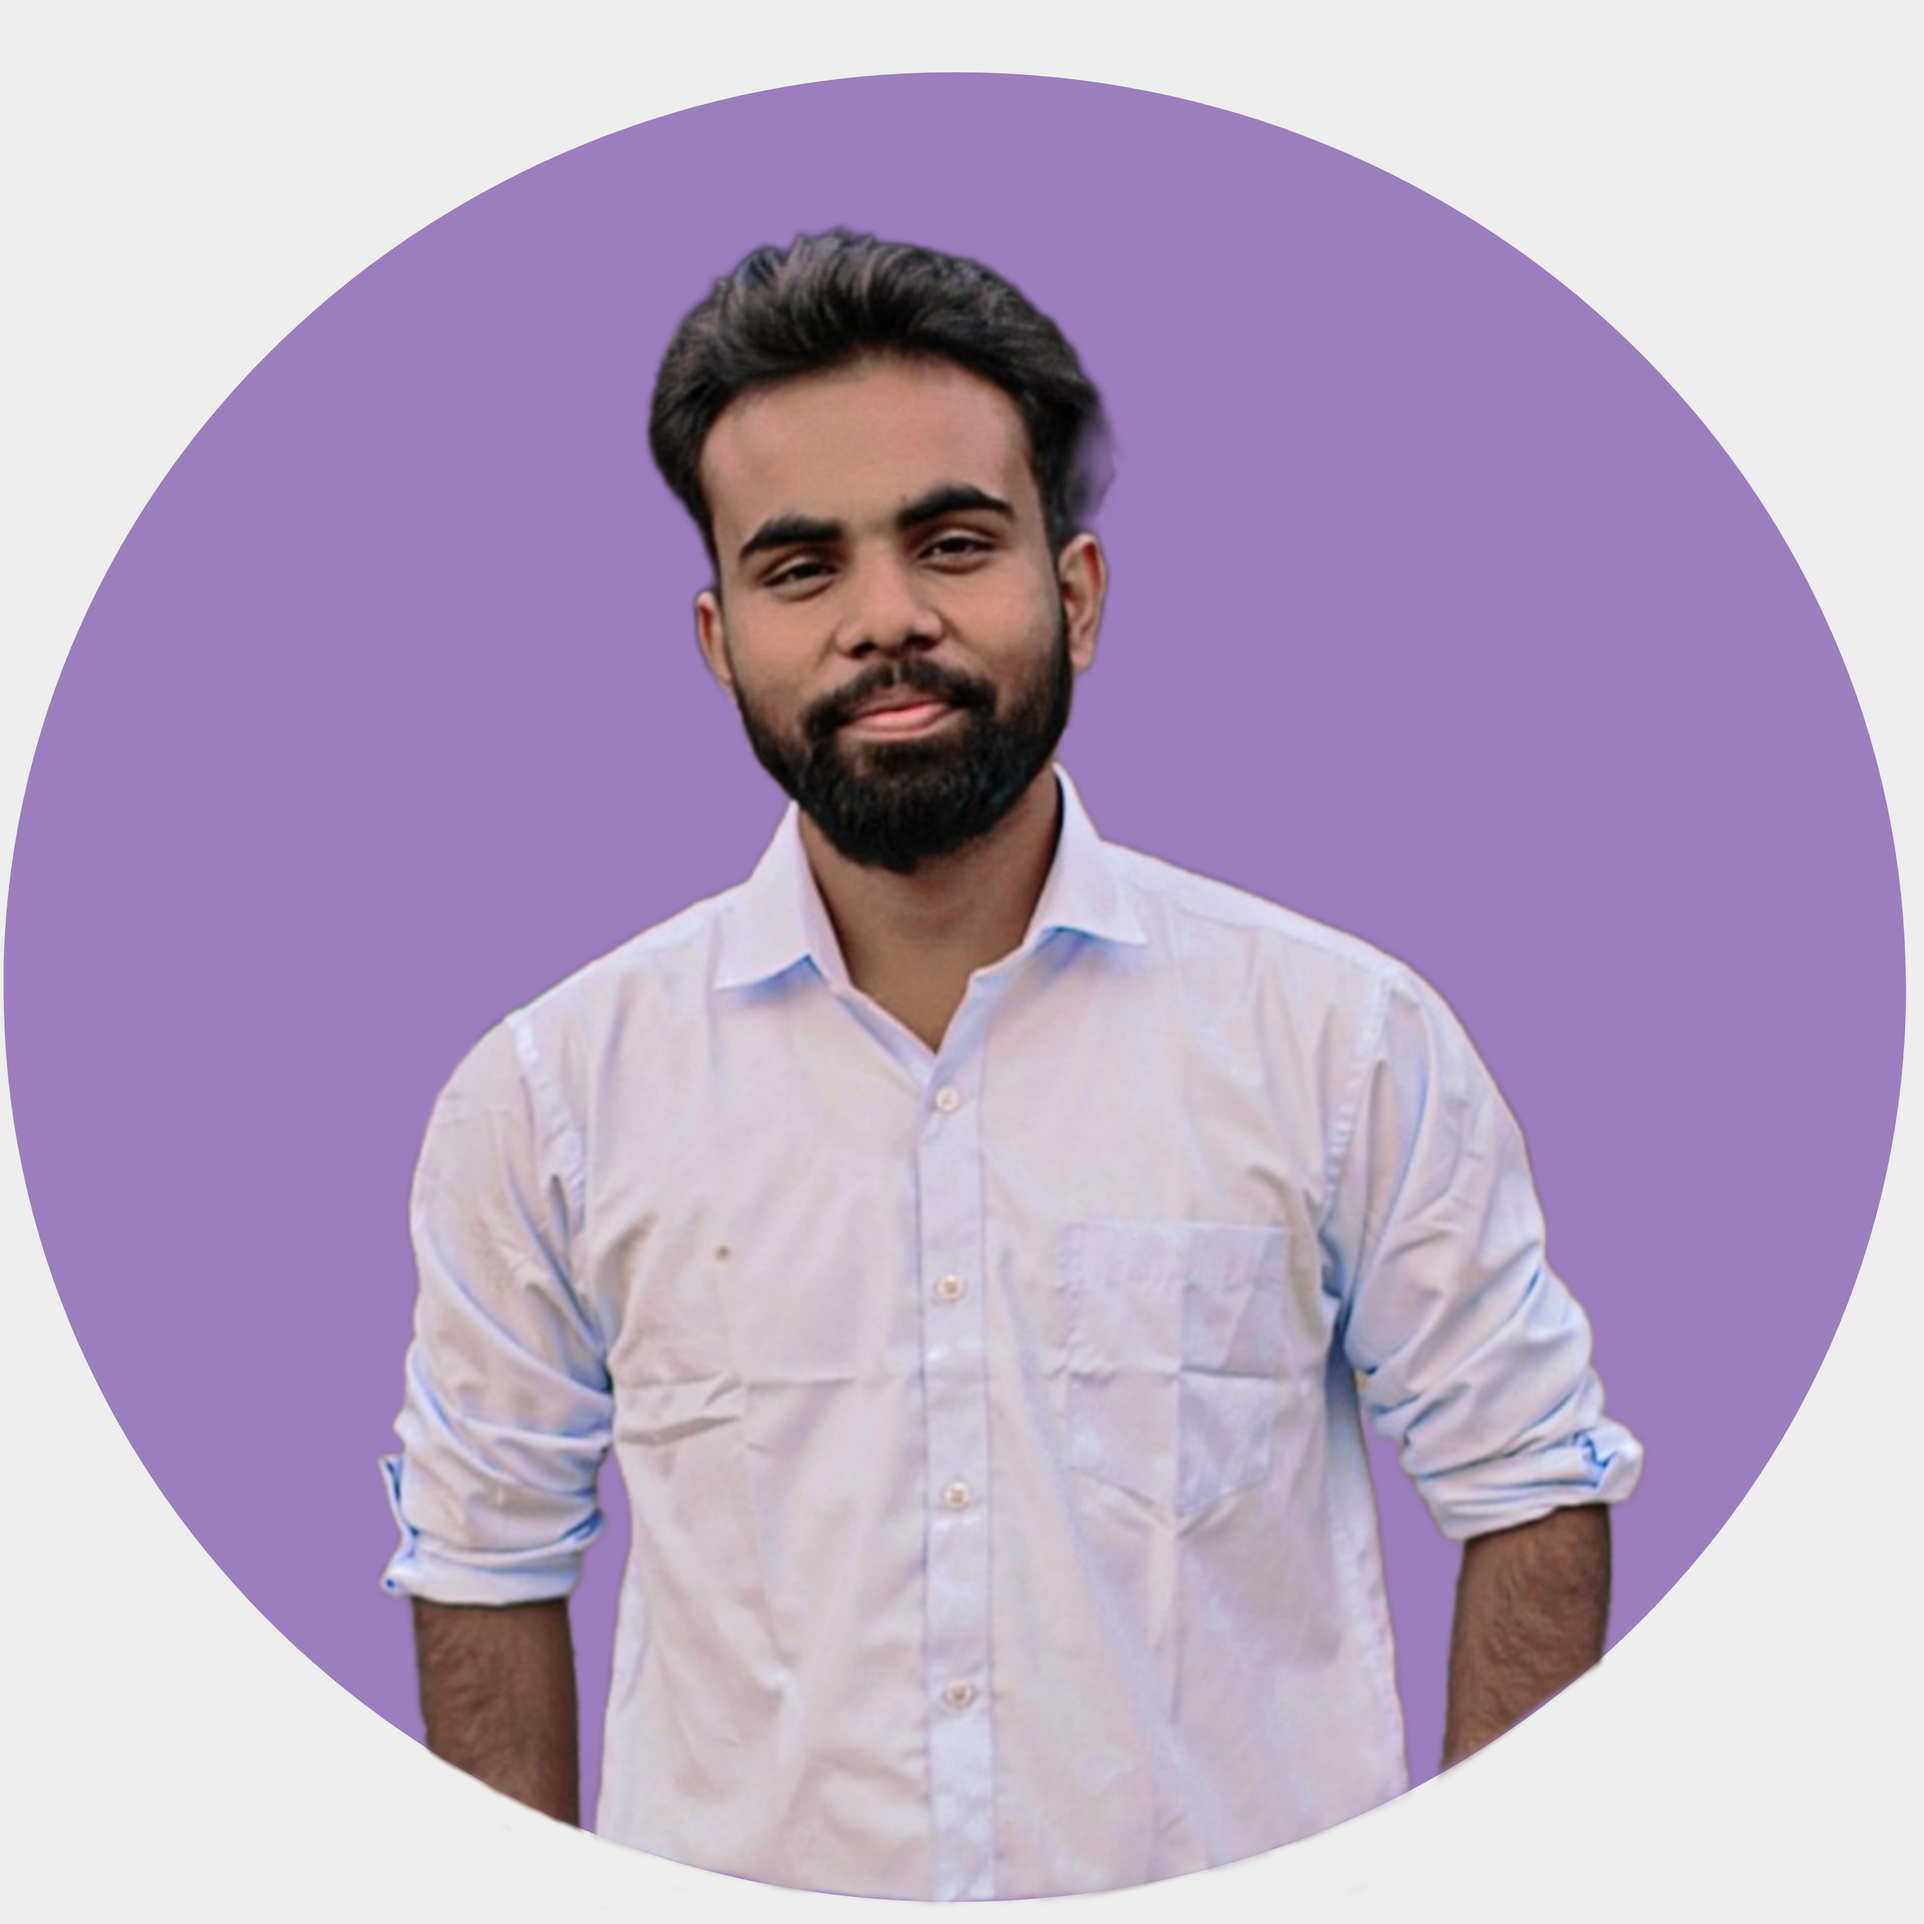
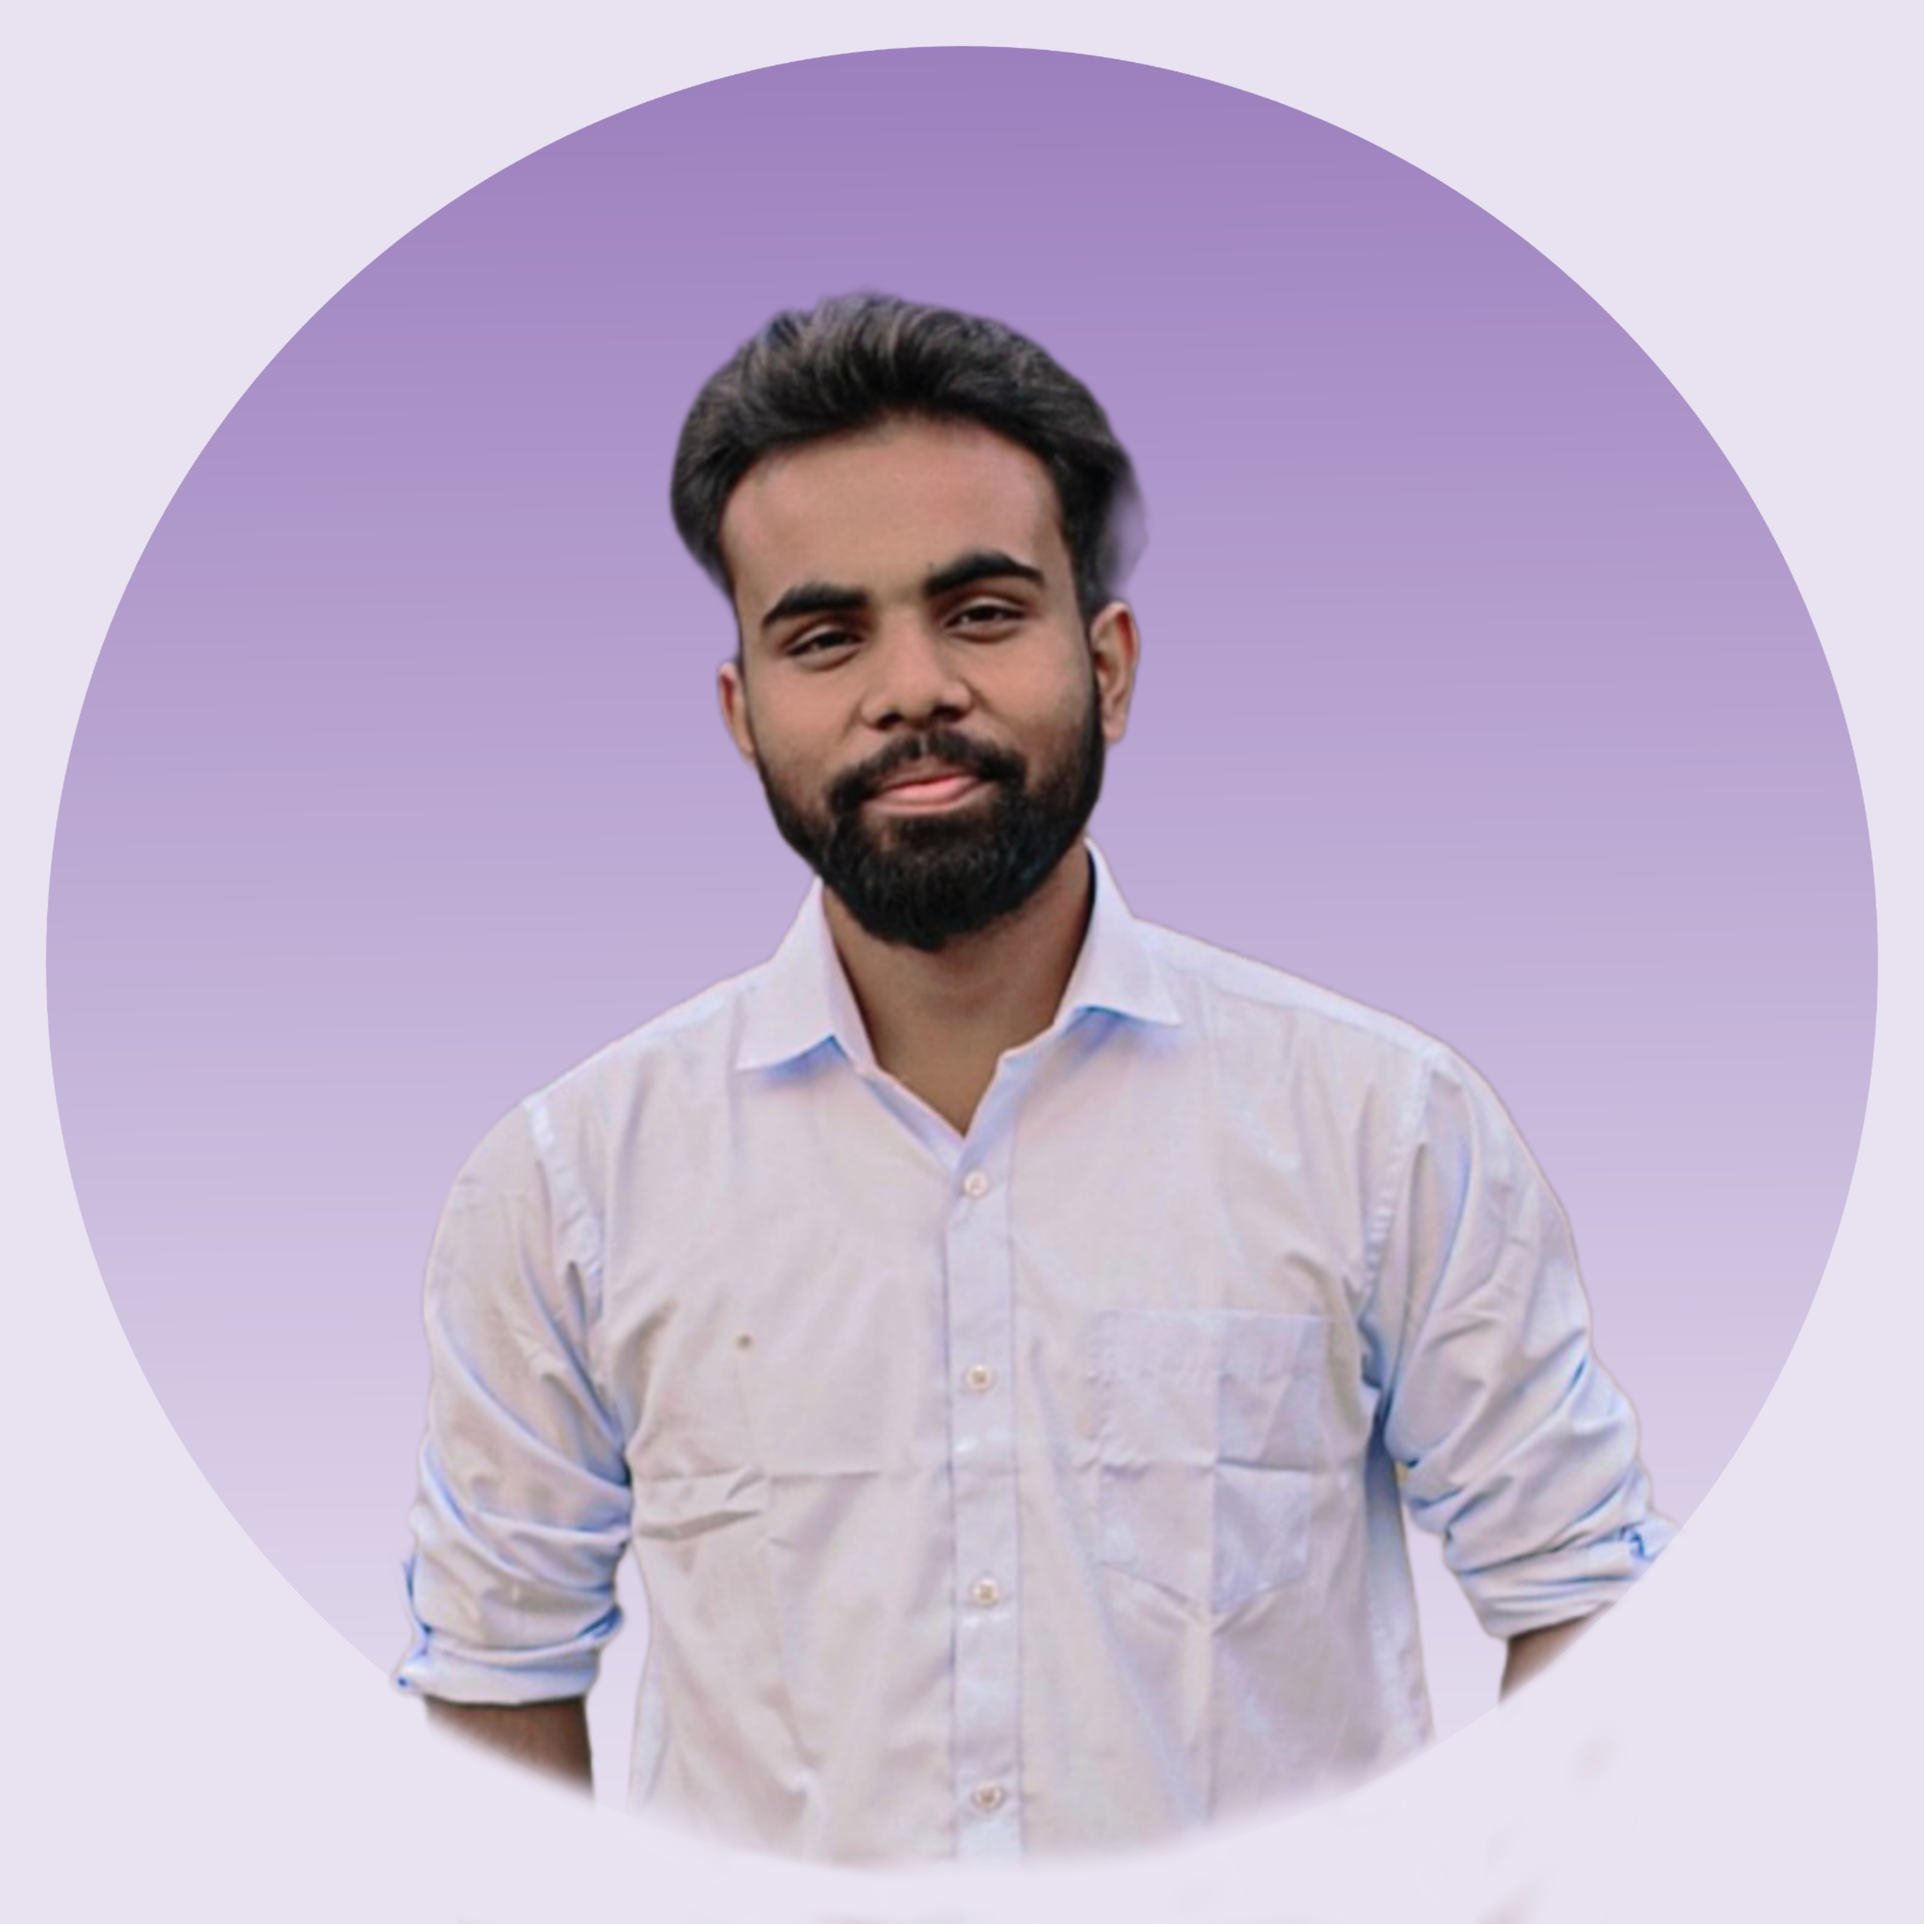
frontend

diff --git a/src/Components/Home.jsx b/src/Components/Home.jsx
@@ -10,12 +10,31 @@ const Home = () => {
                         <div className=" ">
 
                                 <div className="hidden lg:block">
-                                        <div className="lg:flex lg:justify-around lg:h-screen lg:items-center  ">
-                                                <div className="lg:border lg:h-[30rem] lg:w-[30rem]">
-                                                        <p>Animated text</p>
+                                        <div className="lg:flex lg:justify-evenly lg:h-screen lg:items-center  ">
+                                                <div className="lg:flex lg:flex-col gap-12  ">
+                                                        <div className=" font-bold text-6xl ">
+                                                                <p>Hi ! I am <br /> Rishav Kumar </p>
+                                                        </div>
+                                                        <div className="text-3xl font-semibold font-mono">
+                                                                <TypeAnimation
+                                                                        sequence={[
+
+                                                                                'A Software Developer...',
+                                                                                2000, // wait 1s before replacing "Mice" with "Hamsters"
+                                                                                'A Designer..',
+                                                                                2000,
+                                                                                'An Editor.',
+                                                                                2000,
+                                                                        ]}
+                                                                        wrapper="span"
+                                                                        speed={20}
+                                                                        style={{ display: 'inline-block' }}
+                                                                        repeat={Infinity}
+                                                                />
+                                                        </div>
                                                 </div>
-                                                <div className="lg:border  lg:h-[30rem] lg:w-[30rem]">
-                                                        <img src="" alt="img" />
+                                                <div className=" lg:h-[30rem] lg:w-[30rem]">
+                                                        <img src={dp} alt="img" />
                                                 </div>
                                         </div>
 
@@ -25,16 +44,16 @@ const Home = () => {
                                         <div className="">
                                                 <img src={dp} alt="img" />
                                         </div>
-                                        <div className=" text-center text-3xl font-bold">
+                                        <div className=" text-center text-3xl font-semibold">
                                                 <p>Hi ! I am <br /> Rishav Kumar </p>
                                         </div>
 
-                                        <div className="text-2xl font-medium">
+                                        <div className="text-xl font-mono font-medium">
                                                 <TypeAnimation
                                                         sequence={[
-                                                                
+
                                                                 'A Software Developer',
-                                                                2000, 
+                                                                2000, // wait 1s before replacing "Mice" with "Hamsters"
                                                                 'A Designer',
                                                                 2000,
                                                                 'An Editor',

diff --git a/src/Components/Skills.jsx b/src/Components/Skills.jsx
@@ -1,10 +1,106 @@
 import React from 'react'
+import { FaBootstrap } from "react-icons/fa";
+import { FaHtml5 } from "react-icons/fa";
+import { FaCss3Alt } from "react-icons/fa6";
+import { TbBrandJavascript } from "react-icons/tb";
+import { FaReact } from "react-icons/fa";
+import { RiTailwindCssFill } from "react-icons/ri";
+import { SiMui } from "react-icons/si";
+import { FaAngular } from "react-icons/fa";
+
+
+
+
+
+
+
+
+
+
 
 const Skills = () => {
   return (
-   <section id='skills' className='bg-blue-500 h-screen flex items-center justify-center'>
-    <div className="c">skills</div>
-   </section>
+    <section id='skills' className=''>
+      <div className="">
+        <div className="flex flex-col">
+          <p className='text-3xl lg:text-5xl text-center font-semibold lg:font-bold'>Skills</p>
+          <p className='text-2xl lg:text-3xl text-center font-medium lg:font-semibold mt-8 lg:mt-12'>Frontend Technologies</p>
+
+
+          <div class="grid grid-cols-2 md:grid-cols-3 lg:grid-cols-3 mt-6 lg:mt-12 gap-12  p-4">
+            <div className='flex flex-col items-center justify-around cursor-pointer hover:scale-125 duration-1000 '>
+              <FaHtml5 className='text-7xl lg:text-9xl  text-orange-600' />
+              <p className='font-medium lg:font-semibold lg:text-2xl  '>HTML5</p>
+            </div>
+            <div className='flex flex-col items-center justify-around cursor-pointer hover:scale-125 duration-1000 '>
+              <FaCss3Alt className='text-7xl lg:text-9xl  text-blue-500' />
+              <p className='font-medium lg:font-semibold lg:text-2xl'>CSS3</p>
+            </div>
+            <div className='flex flex-col items-center justify-around cursor-pointer hover:scale-125 duration-1000 '>
+              <TbBrandJavascript className='text-7xl lg:text-9xl  text-amber-400' />
+
+              <p className='font-medium lg:font-semibold lg:text-2xl'>JavaScript</p>
+            </div>
+            <div className='flex flex-col items-center justify-around cursor-pointer hover:scale-125 duration-1000'>
+              <FaReact className='text-7xl lg:text-9xl  text-blue-500' />
+              <p className='font-medium lg:font-semibold lg:text-2xl'>React.Js</p>
+            </div>
+            <div className='flex flex-col items-center justify-around cursor-pointer hover:scale-125 duration-1000'>
+              <FaAngular className='text-7xl lg:text-9xl  text-red-500' />
+              <p className='font-medium lg:font-semibold lg:text-2xl'>Angular.Js</p>
+            </div>
+            <div className='flex flex-col items-center justify-around cursor-pointer hover:scale-125 duration-1000 '>
+              <FaBootstrap className='text-7xl lg:text-9xl  text-purple-700' />
+              <p className='font-medium lg:font-semibold lg:text-2xl'>Bootstrap</p>
+            </div>
+            <div className='flex flex-col items-center justify-around cursor-pointer hover:scale-125 duration-1000 '>
+              <SiMui className='text-7xl lg:text-9xl  text-blue-500' />
+              <p className='font-medium lg:font-semibold lg:text-2xl'>Material UI</p>
+            </div>
+            <div className='flex flex-col items-center justify-around cursor-pointer hover:scale-125 duration-1000 '>
+              <RiTailwindCssFill className='text-7xl lg:text-9xl  text-cyan-400' />
+              <p className='font-medium lg:font-semibold lg:text-2xl'>Tailwind CSS</p>
+            </div>
+          </div>
+        </div>
+
+
+
+
+
+      </div>
+
+
+
+
+
+
+
+
+
+
+
+
+
+
+
+
+
+
+
+
+
+
+
+
+
+
+
+
+
+
+
+    </section>
   )
 }
 

diff --git a/src/Components/About.jsx b/src/Components/About.jsx
@@ -1,10 +1,18 @@
 const About = () => (
   <section id="about" >
-   
-      <div className=" flex items-center justify-center h-screen bg-[#8245b85c]">
 
+    <div className=" ">
+      <div className="lg:text-xl ">
+        <p className="text-center mt-20 lg:mt-14 mb-8 lg:mb-10 text-3xl font-bold lg:text-5xl">About Me</p>
+        <p className="text-justify lg:text-center p-4 lg:px-28 mb-11">
+          Hi, I'm < span className='text-[#8464aa] font-bold'>Rishav Kumar</span>, a passionate  < span className='text-[#8464aa] font-bold'> Full-Stack Developer </span> from Delhi, India.
+          I thrive at the intersection of creativity brand technology, crafting web applications that not only function seamlessly but also offer intuitive user experiences. Outside of development,  I enjoy < span className='text-[#8464aa] font-bold'>Hiking in the Mountains </span> Capturing moments through Photography. With expertise in <span className="font-bold text-[#8464aa]">HTML, CSS, JavaScript, React.js, Node.js, MongoDB, </span>and responsive design, I’m equipped to handle both <span className="font-bold text-[#8464aa]">Front-End</span> and <span className="font-bold text-[#8464aa]">Back-End</span> challenges. I pride myself on adaptability, a problem-solving mindset, and the ability to transform ideas into impactful solutions. Whether coding or  I believe every journey is an opportunity to grow, connect, and make a difference.
+
+
+        </p>
       </div>
-    
+    </div>
+
   </section>
 );
 

diff --git a/src/App.jsx b/src/App.jsx
@@ -26,7 +26,7 @@ const App = () => {
 
 
   return (
-    <div className="bg-[#EEEEEE]">
+    <div className="bg-[#9b7ebd37]">
       <Navbar />
       <Home />
       <About />
